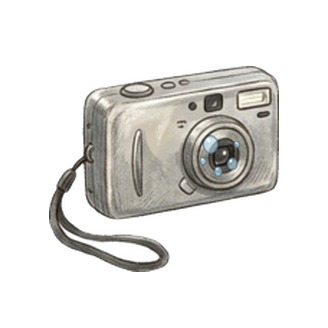
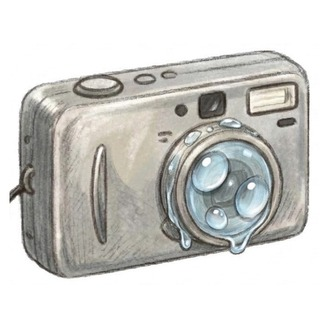
Lens water drops picture: big clear drops on the camera lens, visible at choice size (jihoon day 12) (BUILD 1107165052)

diff --git a/index.html b/index.html
@@ -119,14 +119,14 @@ body,button{word-break:keep-all;overflow-wrap:break-word}
 <div id="fader"></div>
 <script>
 // same address, newest version: if the page this phone has kept is older than the one online, fetch the new one and reopen
-const BUILD='1107161628';
+const BUILD='1107165052';
 try{fetch(location.pathname,{cache:'no-store'}).then(r=>r.text()).then(t=>{const m=t.match(/const BUILD='(\d+)'/);if(m&&m[1]!==BUILD&&sessionStorage.getItem('upd')!==m[1]){sessionStorage.setItem('upd',m[1]);fetch(location.pathname,{cache:'reload'}).then(()=>location.reload())}}).catch(()=>{})}catch(e){}
 </script>
-<script src="i18n.js?v=1107161628"></script>
-<script src="i18n_prologue_v2.js?v=1107161628"></script>
-<script src="day2/i18n_engine.js?v=1107161628"></script>
-<script src="day2/data.js?v=1107161628"></script>
-<script src="day3/data.js?v=1107161628"></script>
+<script src="i18n.js?v=1107165052"></script>
+<script src="i18n_prologue_v2.js?v=1107165052"></script>
+<script src="day2/i18n_engine.js?v=1107165052"></script>
+<script src="day2/data.js?v=1107165052"></script>
+<script src="day3/data.js?v=1107165052"></script>
 <script>
 // ---------- data ----------
 const MW=1672,MH=941,KID=180;
@@ -569,35 +569,35 @@ function pickHero(){const m=document.getElementById('modal'),c=document.getEleme
  c.innerHTML=`<h2>${tr('전학생 반장되기')}</h2><p>${tr('한국말이 아직 서툰 전학생,<br>반장 선거에 나가다.')}</p><p style="margin-top:14px">${tr('누구로 할까요?')}</p>${(()=>{const s=loadSave();return s&&s.day>=2&&s.mode===UI+'-'+LANG?`<p><button class="big" id="cont">${tr('{n}일차부터 이어 하기').replace('{n}',s.day)}</button></p>`:''})()}<div class="pick heroes"><button data-h="hero_f"><img src="faces/hero_f_smile.jpg" alt="여자 주인공">${heroName(1)}</button><button data-h="hero_m"><img src="faces/hero_m_smile.jpg" alt="남자 주인공">${heroName(0)}</button></div>`;
  m.classList.add('on');{const cb=document.getElementById('cont');if(cb)cb.onclick=()=>{const s=loadSave();HERO=s.hero;Object.assign(HEART,s.heart||{});(s.found||[]).forEach(k=>FOUND.add(k));HEART_D1={...HEART};chime();(typeof contGame==='function'?contGame(s):startDay(Math.min(s.day,Object.keys(window.D3||{}).length?3:2)))}}c.querySelectorAll('.pick button').forEach(b=>b.onclick=()=>{HERO=b.dataset.h;m.classList.remove('on');chime();bgm('day');load('home_am');say([['nar','','이사 온 다음 날 아침. 아직 풀지 못한 상자들이 쌓여 있다.'],['think','sad','(오늘부터 새 학교야. 여기 말도 아직 서툰데…….)'],['think','smile','({m}한테 인사하고 학교 가야지.)']],morning)})}
 </script>
-<script src="day2/engine.js?v=1107161628"></script>
-<script src="day2/ep_minho.js?v=1107161628"></script>
-<script src="day2/meet.js?v=1107161628"></script>
-<script src="day2/ep_sua.js?v=1107161628"></script>
-<script src="day2/ep_hangyeol.js?v=1107161628"></script>
-<script src="day2/ep_siwoo.js?v=1107161628"></script>
-<script src="day2/ep_haram.js?v=1107161628"></script>
-<script src="day2/ep_jiho.js?v=1107161628"></script>
-<script src="day2/ep_hyeeun.js?v=1107161628"></script>
-<script src="day2/ep_haneul.js?v=1107161628"></script>
-<script src="day2/ep_junho.js?v=1107161628"></script>
-<script src="day2/ep_yuna.js?v=1107161628"></script>
-<script src="day2/ep_yena.js?v=1107161628"></script>
-<script src="day2/ep_haeun.js?v=1107161628"></script>
-<script src="day2/ep_youngmin.js?v=1107161628"></script>
-<script src="day2/ep_seah.js?v=1107161628"></script>
-<script src="day2/ep_jihoon.js?v=1107161628"></script>
-<script src="words_ja_ru.js?v=1107161628"></script>
-<script src="day2/mybag.js?v=1107161628"></script>
-<script src="day2/wordpics.js?v=1107161628"></script>
-<script src="day2/spots.js?v=1107161628"></script>
-<script src="day2/textfit.js?v=1107161628"></script>
-<script src="day2/tester.js?v=1107161628"></script>
-<script src="day2/ux.js?v=1107161628"></script>
-<script src="day2/tapword.js?v=1107161628"></script>
-<script src="day2/review.js?v=1107161628"></script>
-<script src="day2/plane.js?v=1107161628"></script>
-<script src="day2/ep_ending.js?v=1107161628"></script>
-<script src="day2/ending.js?v=1107161628"></script>
+<script src="day2/engine.js?v=1107165052"></script>
+<script src="day2/ep_minho.js?v=1107165052"></script>
+<script src="day2/meet.js?v=1107165052"></script>
+<script src="day2/ep_sua.js?v=1107165052"></script>
+<script src="day2/ep_hangyeol.js?v=1107165052"></script>
+<script src="day2/ep_siwoo.js?v=1107165052"></script>
+<script src="day2/ep_haram.js?v=1107165052"></script>
+<script src="day2/ep_jiho.js?v=1107165052"></script>
+<script src="day2/ep_hyeeun.js?v=1107165052"></script>
+<script src="day2/ep_haneul.js?v=1107165052"></script>
+<script src="day2/ep_junho.js?v=1107165052"></script>
+<script src="day2/ep_yuna.js?v=1107165052"></script>
+<script src="day2/ep_yena.js?v=1107165052"></script>
+<script src="day2/ep_haeun.js?v=1107165052"></script>
+<script src="day2/ep_youngmin.js?v=1107165052"></script>
+<script src="day2/ep_seah.js?v=1107165052"></script>
+<script src="day2/ep_jihoon.js?v=1107165052"></script>
+<script src="words_ja_ru.js?v=1107165052"></script>
+<script src="day2/mybag.js?v=1107165052"></script>
+<script src="day2/wordpics.js?v=1107165052"></script>
+<script src="day2/spots.js?v=1107165052"></script>
+<script src="day2/textfit.js?v=1107165052"></script>
+<script src="day2/tester.js?v=1107165052"></script>
+<script src="day2/ux.js?v=1107165052"></script>
+<script src="day2/tapword.js?v=1107165052"></script>
+<script src="day2/review.js?v=1107165052"></script>
+<script src="day2/plane.js?v=1107165052"></script>
+<script src="day2/ep_ending.js?v=1107165052"></script>
+<script src="day2/ending.js?v=1107165052"></script>
 <script>
 // the goal shows big for a few seconds, then folds into a small pill (tap it to open it again)
 {const g=document.getElementById('goal');let t=null;const big=()=>{g.classList.remove('mini');clearTimeout(t);t=setTimeout(()=>g.classList.add('mini'),4000)};
